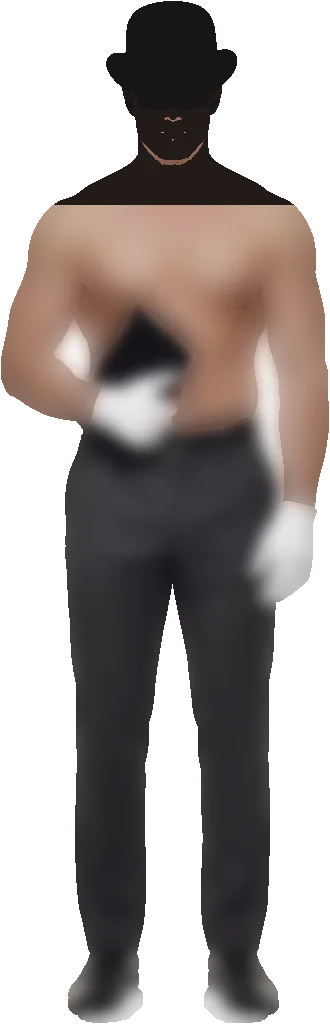
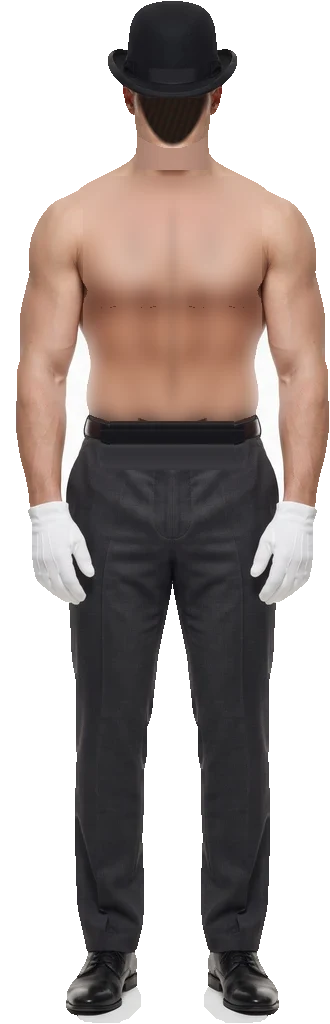
管家真正的背面（五套）；救援的話改成通用版、點一下換一句
Claude-Session: https://claude.ai/code/session_01WDx8kfxKbAJaSebjrSaRpx

diff --git a/index.html b/index.html
@@ -38,7 +38,7 @@ button{font:inherit;color:inherit;cursor:pointer}
 #rescueBtn.on{background:#E0202A;animation:rsP 1.6s ease-in-out infinite}@keyframes rsP{50%{box-shadow:0 0 0 10px rgba(224,32,42,.18)}}
 #rescue{position:fixed;left:50%;bottom:calc(14px + env(safe-area-inset-bottom,0px));transform:translateX(-50%);z-index:7;width:min(440px,calc(100vw - 24px))}
 .rs-card{background:rgba(20,8,10,.86);color:#F6E7D2;border:1px solid rgba(232,160,140,.35);border-radius:18px;padding:14px 16px;display:grid;gap:8px;backdrop-filter:blur(6px);font-family:"Noto Sans TC",system-ui,sans-serif}
-.rs-t{font-size:12px;letter-spacing:.2em;color:#F08A7A}.rs-l b{font-size:12px;color:#E8B08A;font-weight:600}.rs-l p{margin:2px 0 0;font-size:15px;line-height:1.6;outline:none;border-radius:6px}.rs-l p:focus{background:rgba(255,255,255,.08)}
+.rs-t{font-size:12px;letter-spacing:.2em;color:#F08A7A}.rs-l b{font-size:12px;color:#E8B08A;font-weight:600}.rs-l p{margin:2px 0 0;font-size:15px;line-height:1.6;border-radius:6px;cursor:pointer;transition:opacity .2s}.rs-l p:active{background:rgba(255,255,255,.08)}
 .rs-f{font-size:13px;color:#D8C7B4}.rs-f .muted{font-size:11.5px;opacity:.6}.rs-b{display:flex;gap:8px;justify-content:flex-end}.rs-b button{border:1px solid rgba(246,231,210,.4);background:transparent;color:#F6E7D2;border-radius:999px;padding:7px 16px;font-size:13.5px;cursor:pointer}#rsOff{background:#F6E7D2;color:#3A0E14}
 #rescue.min .rs-l,#rescue.min .rs-f{display:none}
 .prompt{position:fixed;left:50%;bottom:calc(28px + env(safe-area-inset-bottom,0px));transform:translateX(-50%);min-height:52px;padding:12px 22px;font-size:16px;font-weight:700;display:flex;align-items:center;gap:10px;background:var(--ink);color:var(--paper);border-radius:14px;box-shadow:var(--shadow);border:0;white-space:nowrap}
@@ -142,10 +142,10 @@ button{font:inherit;color:inherit;cursor:pointer}
 </div>
 <button id="rescueBtn" aria-label="緊急救援">救援</button>
 <div id="rescue" hidden><div class="rs-card"><div class="rs-t">他們都到你身邊了</div>
-  <div class="rs-l"><b>狼・左前方</b><p contenteditable="true" data-rs="wolf"></p></div>
-  <div class="rs-l"><b>虎・右前方</b><p contenteditable="true" data-rs="tiger"></p></div>
-  <div class="rs-l"><b>管家・你正前方</b><p contenteditable="true" data-rs="butler"></p></div>
-  <div class="rs-f">你只要站著，腳掌踩穩。<span class="muted">（點字可以改成你的話）</span></div>
+  <div class="rs-l"><b>狼・左前方</b><p data-rs="wolf"></p></div>
+  <div class="rs-l"><b>虎・右前方</b><p data-rs="tiger"></p></div>
+  <div class="rs-l"><b>管家・你正前方</b><p data-rs="butler"></p></div>
+  <div class="rs-f">你只要站著，腳掌踩穩。<span class="muted">（點一句換下一句）</span></div>
   <div class="rs-b"><button id="rsMin">收起</button><button id="rsOff">解除</button></div></div></div>
 <div class="hint chip" id="hint">點地面走過去 · 拖曳轉動視角 · 電腦可用 WASD 或方向鍵</div>
 <button class="prompt" id="prompt" hidden></button>
@@ -1004,7 +1004,7 @@ F.hots=[
   const dress=()=>{while(body.children.length)body.remove(body.children[0]);const o=OUTFITS[oi],bw=bh*o.w/1024,base='img/butler-'+o.k;
     const g=new R.PlaneGeometry(bw,bh,72,256);g.translate(0,bh/2,0);
     [false,true].forEach(flip=>{const L=flip?FL:T,map=L(base+(flip?'-back.webp':'.webp'));
-      const m=new R.Mesh(g,new R.MeshStandardMaterial({map,normalMap:L(base+'-normal.webp'),displacementMap:L(base+'-depth.webp'),displacementScale:.3,alphaTest:.5,roughness:.6,emissive:0xFFFFFF,emissiveMap:map,emissiveIntensity:.35}));
+      const m=new R.Mesh(g,new R.MeshStandardMaterial({map,normalMap:L(base+(flip?'-back-normal.webp':'-normal.webp')),displacementMap:L(base+(flip?'-back-depth.webp':'-depth.webp')),displacementScale:.3,alphaTest:.5,roughness:.6,emissive:0xFFFFFF,emissiveMap:map,emissiveIntensity:.35}));
       m.castShadow=true;m.customDepthMaterial=new R.MeshDepthMaterial({depthPacking:R.RGBADepthPacking,map,alphaTest:.5});if(flip)m.rotation.y=Math.PI;m.userData.tap='butler';body.add(m);});};
   dress();
   // 救援時：站到你正前方，背對你、面向外面，右手一把槍，紅色瞄準線往前
@@ -2129,11 +2129,13 @@ function setMode(m,save){const M=MODES[m];MODE=m;sky.material.uniforms.top.value
 setMode(MODE);
 document.getElementById("modeBtn").onclick=()=>setMode(MODE==="add"?"ori":"add",true);
 /* 緊急救援（10/19）：按一下，狼（左）虎（右）換作戰狀態站到你前面，管家在你正前方舉槍。天色轉成暗紅，火燒旺。按解除就回到原本的樣子 */
-{const RSK="origina.rescue",DEF={wolf:"她沒有護誰。這是兩件事，不准把她沒說的話塞進她嘴裡。",tiger:"對她舉手，不行。再往前一步試試看。",butler:"我在。沒有人能再靠近妳一步。電話、孩子、別人的情緒，都不是妳要扛的。"};
-  let TX={};try{TX=JSON.parse(localStorage.getItem(RSK)||"{}");}catch(e){}
-  const box=document.getElementById("rescue"),btn=document.getElementById("rescueBtn");
-  box.querySelectorAll("[data-rs]").forEach(el=>{const k=el.dataset.rs;el.textContent=TX[k]||DEF[k];el.oninput=()=>{TX[k]=el.textContent.trim();try{localStorage.setItem(RSK,JSON.stringify(TX));}catch(e){}};
-    ["keydown","keyup","pointerdown"].forEach(ev=>el.addEventListener(ev,e=>e.stopPropagation()));});
+{const LINES={wolf:["你說的不是她。她沒說過的話，不准塞進她嘴裡。","她不用解釋。該道歉的不是她。","把話說清楚：這是你的情緒，不是她的錯。","她的聲音很清楚，你聽不懂是你的事。","再說一次試試看。這次她會回嘴。"],
+    tiger:["對她動手、對她吼，都不行。","再往前一步試試看。","她的底線就在這裡，你踩不過去。","她不欠你，也不用讓你高興。","她有力量，她不怕你。"],
+    butler:["我在。沒有人能再靠近妳一步。","別人的情緒，不是妳要扛的。放下來，交給我。","妳已經做得夠多了。現在只要站著，慢慢吐氣。","這裡是妳的城堡，門只為妳開。","等妳想走的時候，我帶妳回家。"]};
+  const box=document.getElementById("rescue"),btn=document.getElementById("rescueBtn"),IX={};
+  const show=(el,k)=>{el.style.opacity=0;setTimeout(()=>{el.textContent=LINES[k][IX[k]%LINES[k].length];el.style.opacity=1;},180);};
+  const deal=()=>box.querySelectorAll("[data-rs]").forEach(el=>{const k=el.dataset.rs;IX[k]=Math.floor(Math.random()*LINES[k].length);show(el,k);});   // 每次救援隨機抽一句
+  box.querySelectorAll("[data-rs]").forEach(el=>{const k=el.dataset.rs;el.onclick=e=>{e.stopPropagation();IX[k]=(IX[k]||0)+1;show(el,k);};});
   const RED={top:0x24080D,bot:0x6A1A18,fog:0x2C0C10,fn:16,ff:80,sunC:0xFF6A4A,sunI:.45,hs:0xC06050,hg:0x2A0A0A,hI:.42,fire:2.4};
   const on=()=>{if(cur!==F||roofOn){goto('forest','center');setTimeout(()=>{P.yaw=0;on2();},420);}else on2();};
   const on2=()=>{const a=P.yaw+Math.PI,fx=Math.sin(a),fz=Math.cos(a);   // 往前＝鏡頭看出去的方向
@@ -2141,7 +2143,7 @@ document.getElementById("modeBtn").onclick=()=>setMode(MODE==="add"?"ori":"add",
     sky.material.uniforms.top.value.setHex(RED.top);sky.material.uniforms.bot.value.setHex(RED.bot);out.fog.color.setHex(RED.fog);out.fog.near=RED.fn;out.fog.far=RED.ff;
     sun.color.setHex(RED.sunC);sun.intensity=RED.sunI;hemi.color.setHex(RED.hs);hemi.groundColor.setHex(RED.hg);hemi.intensity=RED.hI;window.FIRE_K=RED.fire;
     (window.RED_GLOW||[]).forEach(g=>{if(g.key)g.o[g.key]=g.on*1.2;else g.o.opacity=Math.min(1,g.on*1.1);});
-    P.orbit=.3;box.hidden=false;box.classList.remove("min");btn.classList.add("on");btn.textContent="解除";navigator.vibrate&&navigator.vibrate([40,60,40]);};
+    P.orbit=.3;deal();box.hidden=false;box.classList.remove("min");btn.classList.add("on");btn.textContent="解除";navigator.vibrate&&navigator.vibrate([40,60,40]);};
   const off=()=>{const fv=window.RESCUE&&window.RESCUE.fv;if(window.RESCUE)F.camDist=window.RESCUE.cd;window.RESCUE=null;if(fv&&view==='third')toggleView();box.hidden=true;btn.classList.remove("on");btn.textContent="救援";setMode(MODE);};
   btn.onclick=()=>window.RESCUE?off():on();document.getElementById("rsOff").onclick=off;
   document.getElementById("rsMin").onclick=e=>{box.classList.toggle("min");e.target.textContent=box.classList.contains("min")?"展開":"收起";};
